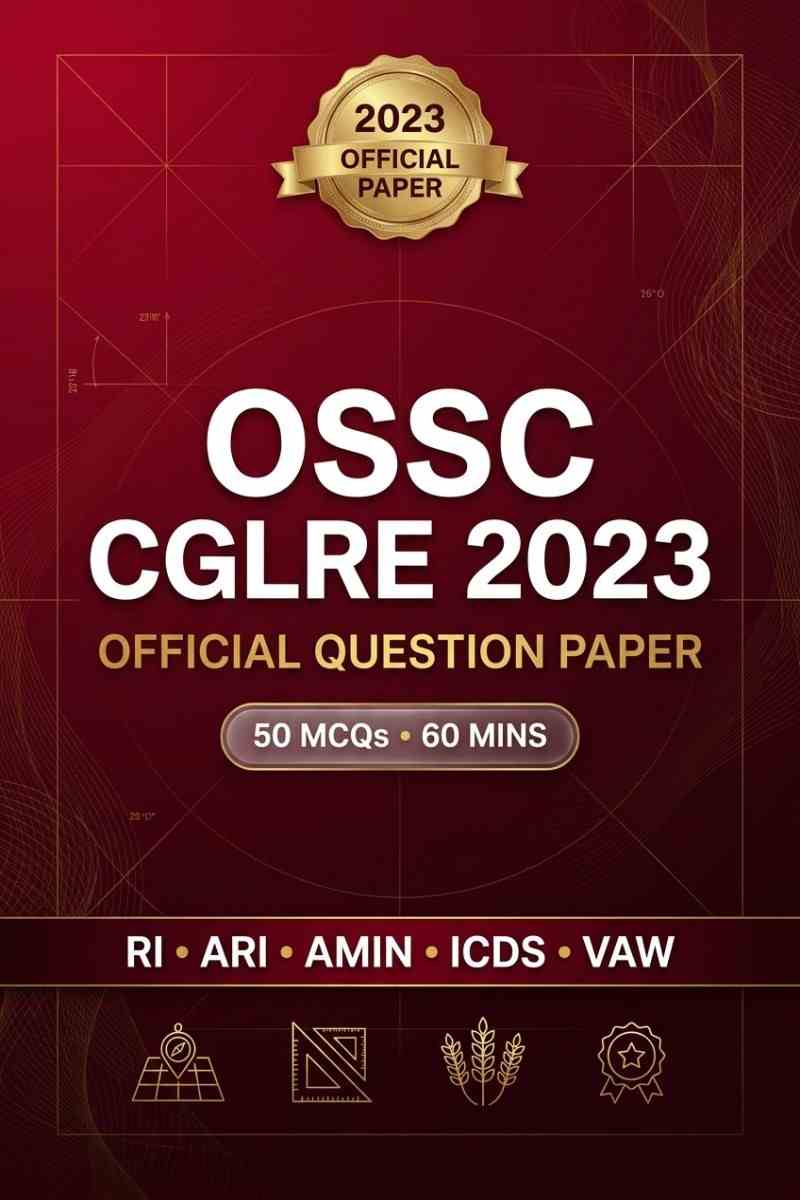
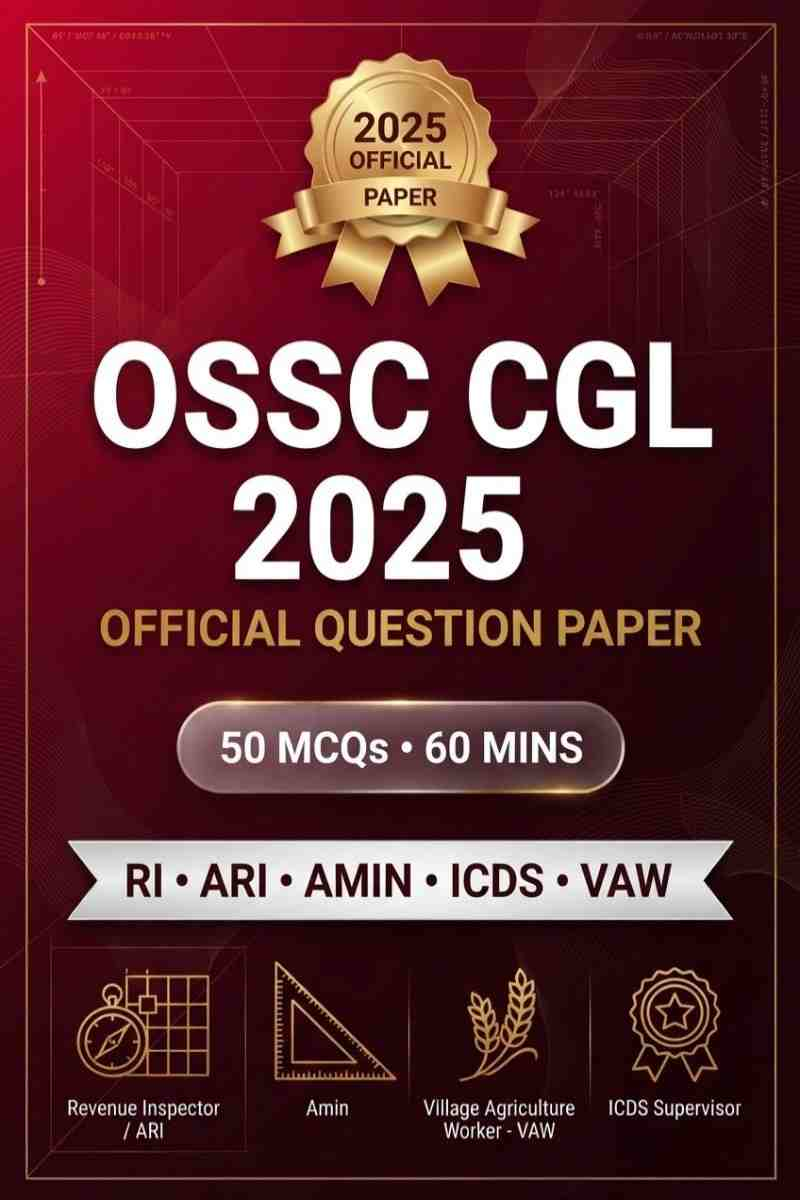
feat: update OSSSC previous paper entry to 2025 OSSC CGL Computer Skill Test and add test link

diff --git a/src/data/osssc.ts b/src/data/osssc.ts
@@ -84,7 +84,7 @@ export interface OssscPrevPaper {
 }
 
 export const ossscPrevPapers: OssscPrevPaper[] = [
-  { id: "pyq-cre-2023", year: "2023", title: "OSSC CGLRE 2023", posts: "RI · ARI · Amin · ICDS Supervisor · VAW", meta: "50 Qs · 60 min", tone: ["#B00020", "#6D0014"], image: "/images/osssc/ossc_cglre_2023.jpeg" },
+  { id: "pyq-cre-2025", year: "2025", title: "OSSC CGL 2025 Computer Skill Test", posts: "RI · ARI · Amin · ICDS Supervisor · VAW", meta: "50 Qs · 60 min", tone: ["#B00020", "#6D0014"], image: "/images/osssc/ossc_cglre_2023.jpeg", href: "/mocktest/test/23" },
 ];
 
 export const ossscSteps: Step[] = [
